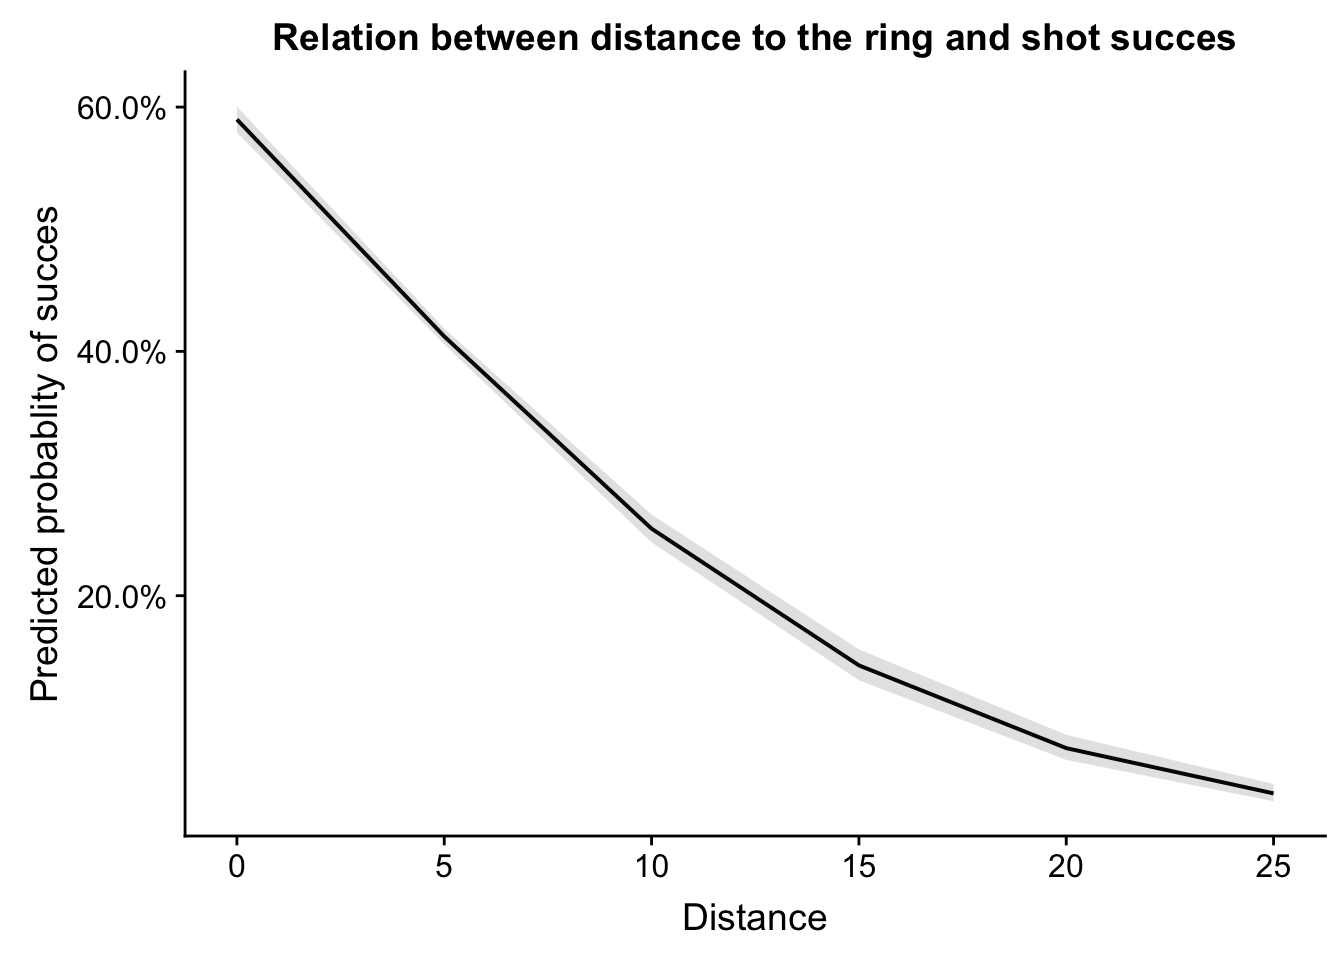
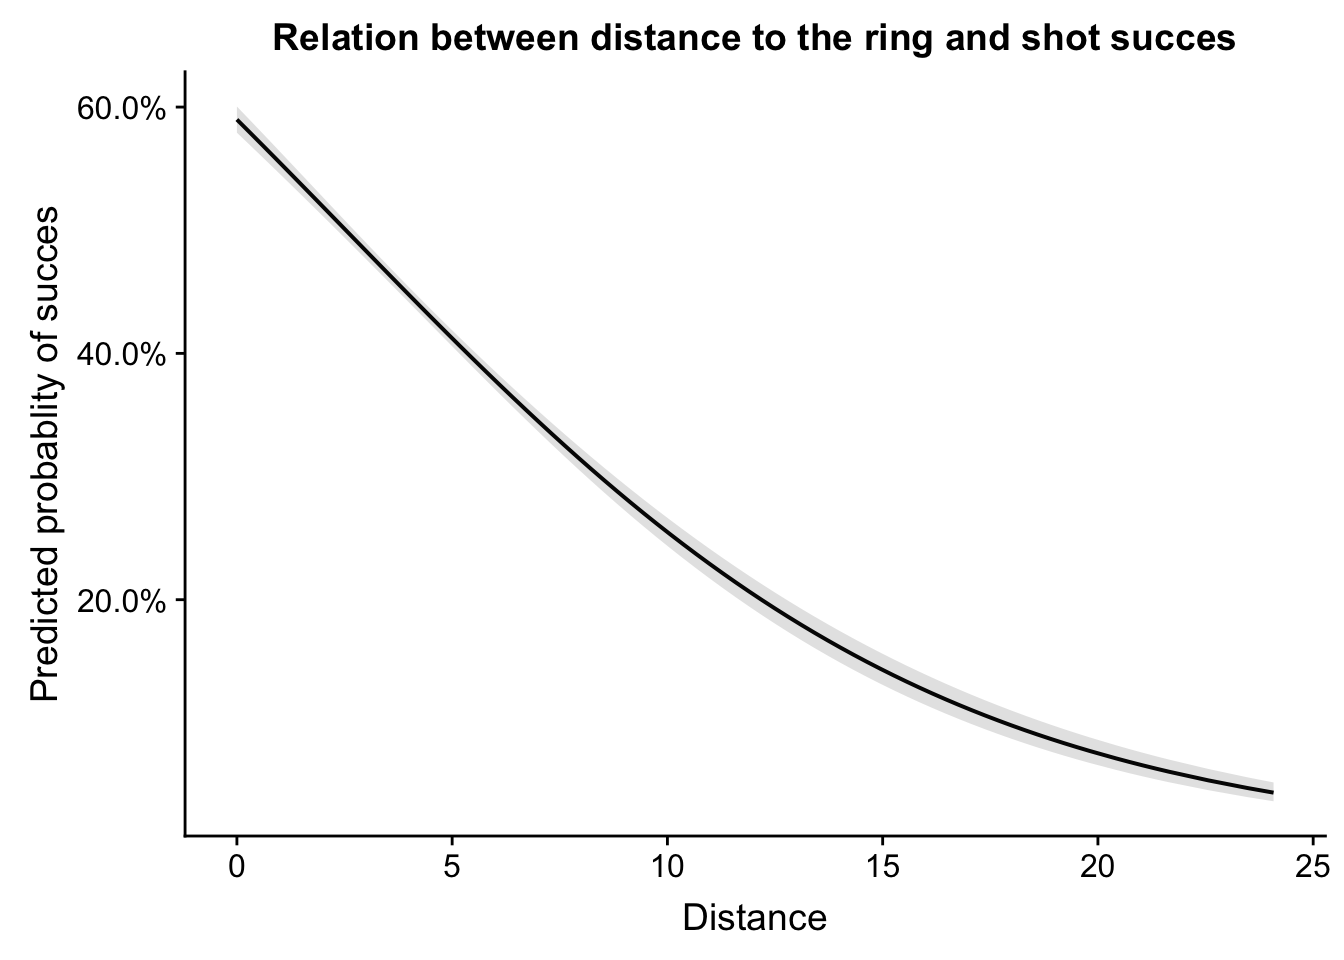
aanpassing_13_12_2019

diff --git a/public/post/compare-models/index.html b/public/post/compare-models/index.html
@@ -132,7 +132,7 @@
   
   <meta property="article:published_time" content="2019-12-09T00:00:00&#43;00:00">
   
-  <meta property="article:modified_time" content="2019-12-09T15:34:00&#43;01:00">
+  <meta property="article:modified_time" content="2019-12-10T13:52:40&#43;01:00">
   
 
   
@@ -449,7 +449,7 @@
 
 
 <meta content="2019-12-09 00:00:00 &#43;0000 UTC" itemprop="datePublished">
-<meta content="2019-12-09 15:34:00 &#43;0100 CET" itemprop="dateModified">
+<meta content="2019-12-10 13:52:40 &#43;0100 CET" itemprop="dateModified">
 
 <div class="article-metadata">
 
@@ -476,7 +476,7 @@
           Last updated on
       
     
-    <time>Dec 9, 2019</time>
+    <time>Dec 10, 2019</time>
   </span>
   
 
@@ -574,15 +574,16 @@
 
 <p>When researchers commonly apply statistical hypothesis testing they rely heavily on the fameous p-values. These p-values have the following meaning: <em>how big is the probability that I would encounter my data given that the null-hypothesis is true</em> . So, actually, these statistical routines inform us on the null-hypothesis (which in most cases is simply the hypothesis that there is no effect or no difference at all). Many scholars have started to critizise this p-value oriented approach leading and discussing the risks and flaws of using p-values. It has even brought the American Statistical Association to the point that they published a statement on p-values (<a href="https://amstat.tandfonline.com/doi/full/10.1080/00031305.2016.1154108#.Xe5xppNKh26">see article</a>).</p>
 <p>To criticize things is one thing. Providing solutions is something different. One of the upcoming alternatives is the idea of <strong>modelbased inference</strong> or <strong>model selection</strong>. The basic idea behind this approach is that a researcher translates alternative hypotheses in different statistical models. Based on measures coming from <em>information theory</em> we then can express the probability of each of the different alternative models. Also, the evidence coming from different models can be combined to make inferences.</p>
-<p>In this post we will give a short demo of how we can use such an approach. We will use this approach to inform us on who is right in a discussion that got out of hand. The discussion was on basketball at the kitchen table of a certain family. More specificall it was on whether Kobe Bryant was the most consistent shotter ever in the NBA. And one of the arguments was that his shotsucces was not that much influenced by many factors. So, which factors had an influence on Kobe Bryant’s shot succes? Let’s find out. Here we go with our <em>statistical story</em>. We do our demonstration in R, making use of the <code>AICcmodavg</code> package.</p>
+<p>In this post we will give a short demo of how we can use such an approach. We will use this approach to inform us on who is right in a discussion that got out of hand…</p>
 <hr />
 <div id="the-story-of-kobe-bryant" class="section level2">
 <h2>The story of Kobe Bryant</h2>
-<p><em>Data-analyses is big business in the NBA. In each team there is at least one data-analysist who gathers data during games and makes predictions based on the data. One of the things documented in datasets is the position from where a player takes a shot and whether the shot was a succes or not…</em></p>
+<p><em>The discussion was on basketball and it happened at the kitchen table of “a certain family”. More specifically, the discussion was on whether Kobe Bryant was one of the most consistent shotters ever in the NBA. One of the arguments was that his shotsucces was nearly influenced by any extraneous factor. But, which factors had an influence on Kobe Bryant’s shot succes? Let’s find out. Here we go with our </em>statistical story<em>. We do our demonstration in R, making use of the <code>AICcmodavg</code> package.</em></p>
 <div class="figure">
 <img src="/img/nba.jpg" />
 
 </div>
+<p>Data-analyses is big business in the NBA. In each team there is at least one data-analysist gathering data during games to make predictions. One of the things documented in datasets is the position from where a player takes a shot and whether the shot was a succes or not…</p>
 <p>For our example we have data on each shot that Kobe Bryant took in his NBA-career. The data can be downloaded here (<a href="/post/KobeBryant.RData">download the data</a>).</p>
 <p>The variable <strong>‘Scored’</strong> registers whether the shot was succesfull or not. A simple table shows the numbers…</p>
 <pre class="r"><code># Scored (0 = missed, 1 = scored)
@@ -718,8 +719,8 @@ AICTAB</code></pre>
 <p>To get an idea of how shot succes is influenced by distance, we can plot our estimated model, making use of the <code>plot_model</code> command from the package <code>sjPlot</code>.</p>
 <pre class="r"><code>library(sjPlot)
 Plot_probs &lt;- plot_model(Model_W,
-                type      = c(&quot;eff&quot;),
-                terms     = c(&quot;Distance_in_m&quot;),
+                type      = c(&quot;pred&quot;),
+                terms     = c(&quot;Distance_in_m [all]&quot;),
                 axis.title = c(&quot;Distance&quot;, &quot;Predicted probablity of succes&quot;),
                 title = &quot;Relation between distance to the ring and shot succes&quot;)
 
@@ -729,7 +730,7 @@ Plot_probs</code></pre>
 </div>
 <div id="to-conlcude" class="section level2">
 <h2>To conlcude</h2>
-<p>The typical null-hypothesis significance testing is under pressure. One of the upcoming alternatives is making use of <strong>modelbased inference</strong>. We hope you get a rough idea about how this approach can be applied. More in-depth reading is of course welcome. The references added in this post can help. A great read as well is Chapter 6 in THE book you must read on statistics: <span class="citation">McElreath (<a href="#ref-mcelreath2018statistical">2018</a>)</span>. This book is also nicely ‘recoded’ making use of modern packages in R in the following book: <a href="https://bookdown.org/connect/#/apps/1850/access">Statistical Rethink Recoded</a>.</p>
+<p>The typical null-hypothesis significance testing is under pressure. One of the upcoming alternatives is making use of <strong>modelbased inference</strong>. We hope you get a rough idea about how this approach can be applied. More in-depth reading is of course welcome. The references added in this post can help. A great read as well is Chapter 6 in THE book you must read on statistics: <span class="citation">McElreath (<a href="#ref-mcelreath2018statistical">2018</a>)</span>. This book is also nicely ‘recoded’ making use of modern packages in R in the following book: <a href="https://bookdown.org/connect/#/apps/1850/access">Statistical Rethinking Recoded</a>.</p>
 <p>Have fun while leaRning!</p>
 </div>
 <div id="references" class="section level1 unnumbered">

diff --git a/content/post/2019-12-09-logisitscheregressie.html b/content/post/2019-12-09-logisitscheregressie.html
@@ -25,15 +25,16 @@ link-citations: true
 
 <p>When researchers commonly apply statistical hypothesis testing they rely heavily on the fameous p-values. These p-values have the following meaning: <em>how big is the probability that I would encounter my data given that the null-hypothesis is true</em> . So, actually, these statistical routines inform us on the null-hypothesis (which in most cases is simply the hypothesis that there is no effect or no difference at all). Many scholars have started to critizise this p-value oriented approach leading and discussing the risks and flaws of using p-values. It has even brought the American Statistical Association to the point that they published a statement on p-values (<a href="https://amstat.tandfonline.com/doi/full/10.1080/00031305.2016.1154108#.Xe5xppNKh26">see article</a>).</p>
 <p>To criticize things is one thing. Providing solutions is something different. One of the upcoming alternatives is the idea of <strong>modelbased inference</strong> or <strong>model selection</strong>. The basic idea behind this approach is that a researcher translates alternative hypotheses in different statistical models. Based on measures coming from <em>information theory</em> we then can express the probability of each of the different alternative models. Also, the evidence coming from different models can be combined to make inferences.</p>
-<p>In this post we will give a short demo of how we can use such an approach. We will use this approach to inform us on who is right in a discussion that got out of hand. The discussion was on basketball at the kitchen table of a certain family. More specificall it was on whether Kobe Bryant was the most consistent shotter ever in the NBA. And one of the arguments was that his shotsucces was not that much influenced by many factors. So, which factors had an influence on Kobe Bryant’s shot succes? Let’s find out. Here we go with our <em>statistical story</em>. We do our demonstration in R, making use of the <code>AICcmodavg</code> package.</p>
+<p>In this post we will give a short demo of how we can use such an approach. We will use this approach to inform us on who is right in a discussion that got out of hand…</p>
 <hr />
 <div id="the-story-of-kobe-bryant" class="section level2">
 <h2>The story of Kobe Bryant</h2>
-<p><em>Data-analyses is big business in the NBA. In each team there is at least one data-analysist who gathers data during games and makes predictions based on the data. One of the things documented in datasets is the position from where a player takes a shot and whether the shot was a succes or not…</em></p>
+<p><em>The discussion was on basketball and it happened at the kitchen table of “a certain family”. More specifically, the discussion was on whether Kobe Bryant was one of the most consistent shotters ever in the NBA. One of the arguments was that his shotsucces was nearly influenced by any extraneous factor. But, which factors had an influence on Kobe Bryant’s shot succes? Let’s find out. Here we go with our </em>statistical story<em>. We do our demonstration in R, making use of the <code>AICcmodavg</code> package.</em></p>
 <div class="figure">
 <img src="/img/nba.jpg" />
 
 </div>
+<p>Data-analyses is big business in the NBA. In each team there is at least one data-analysist gathering data during games to make predictions. One of the things documented in datasets is the position from where a player takes a shot and whether the shot was a succes or not…</p>
 <p>For our example we have data on each shot that Kobe Bryant took in his NBA-career. The data can be downloaded here (<a href="/post/KobeBryant.RData">download the data</a>).</p>
 <p>The variable <strong>‘Scored’</strong> registers whether the shot was succesfull or not. A simple table shows the numbers…</p>
 <pre class="r"><code># Scored (0 = missed, 1 = scored)
@@ -169,8 +170,8 @@ AICTAB</code></pre>
 <p>To get an idea of how shot succes is influenced by distance, we can plot our estimated model, making use of the <code>plot_model</code> command from the package <code>sjPlot</code>.</p>
 <pre class="r"><code>library(sjPlot)
 Plot_probs &lt;- plot_model(Model_W,
-                type      = c(&quot;eff&quot;),
-                terms     = c(&quot;Distance_in_m&quot;),
+                type      = c(&quot;pred&quot;),
+                terms     = c(&quot;Distance_in_m [all]&quot;),
                 axis.title = c(&quot;Distance&quot;, &quot;Predicted probablity of succes&quot;),
                 title = &quot;Relation between distance to the ring and shot succes&quot;)
 
@@ -180,7 +181,7 @@ Plot_probs</code></pre>
 </div>
 <div id="to-conlcude" class="section level2">
 <h2>To conlcude</h2>
-<p>The typical null-hypothesis significance testing is under pressure. One of the upcoming alternatives is making use of <strong>modelbased inference</strong>. We hope you get a rough idea about how this approach can be applied. More in-depth reading is of course welcome. The references added in this post can help. A great read as well is Chapter 6 in THE book you must read on statistics: <span class="citation">McElreath (<a href="#ref-mcelreath2018statistical">2018</a>)</span>. This book is also nicely ‘recoded’ making use of modern packages in R in the following book: <a href="https://bookdown.org/connect/#/apps/1850/access">Statistical Rethink Recoded</a>.</p>
+<p>The typical null-hypothesis significance testing is under pressure. One of the upcoming alternatives is making use of <strong>modelbased inference</strong>. We hope you get a rough idea about how this approach can be applied. More in-depth reading is of course welcome. The references added in this post can help. A great read as well is Chapter 6 in THE book you must read on statistics: <span class="citation">McElreath (<a href="#ref-mcelreath2018statistical">2018</a>)</span>. This book is also nicely ‘recoded’ making use of modern packages in R in the following book: <a href="https://bookdown.org/connect/#/apps/1850/access">Statistical Rethinking Recoded</a>.</p>
 <p>Have fun while leaRning!</p>
 </div>
 <div id="references" class="section level1 unnumbered">

diff --git a/public/index.html b/public/index.html
@@ -801,7 +801,7 @@
 
 
 <meta content="2019-12-09 00:00:00 &#43;0000 UTC" itemprop="datePublished">
-<meta content="2019-12-09 15:34:00 &#43;0100 CET" itemprop="dateModified">
+<meta content="2019-12-10 13:52:40 &#43;0100 CET" itemprop="dateModified">
 
 <div class="article-metadata">
 
@@ -828,7 +828,7 @@
           Last updated on
       
     
-    <time>Dec 9, 2019</time>
+    <time>Dec 10, 2019</time>
   </span>
   
 
@@ -911,7 +911,7 @@
 
 
 <meta content="2019-07-07 00:00:00 &#43;0000 UTC" itemprop="datePublished">
-<meta content="2019-07-07 22:24:57 &#43;0200 CEST" itemprop="dateModified">
+<meta content="2019-12-10 13:52:40 &#43;0100 CET" itemprop="dateModified">
 
 <div class="article-metadata">
 
@@ -926,7 +926,7 @@
           Last updated on
       
     
-    <time>Jul 7, 2019</time>
+    <time>Dec 10, 2019</time>
   </span>
   
 

diff --git a/public/post/index.html b/public/post/index.html
@@ -494,7 +494,7 @@
 
 
 <meta content="2019-12-09 00:00:00 &#43;0000 UTC" itemprop="datePublished">
-<meta content="2019-12-09 15:34:00 &#43;0100 CET" itemprop="dateModified">
+<meta content="2019-12-10 13:52:40 &#43;0100 CET" itemprop="dateModified">
 
 <div class="article-metadata">
 
@@ -521,7 +521,7 @@
           Last updated on
       
     
-    <time>Dec 9, 2019</time>
+    <time>Dec 10, 2019</time>
   </span>
   
 
@@ -604,7 +604,7 @@
 
 
 <meta content="2019-07-07 00:00:00 &#43;0000 UTC" itemprop="datePublished">
-<meta content="2019-07-07 22:24:57 &#43;0200 CEST" itemprop="dateModified">
+<meta content="2019-12-10 13:52:40 &#43;0100 CET" itemprop="dateModified">
 
 <div class="article-metadata">
 
@@ -619,7 +619,7 @@
           Last updated on
       
     
-    <time>Jul 7, 2019</time>
+    <time>Dec 10, 2019</time>
   </span>
   
 

diff --git a/public/post/how-to-understand-bayesian-analyses/index.html b/public/post/how-to-understand-bayesian-analyses/index.html
@@ -132,7 +132,7 @@
   
   <meta property="article:published_time" content="2019-07-07T00:00:00&#43;00:00">
   
-  <meta property="article:modified_time" content="2019-07-07T22:24:57&#43;02:00">
+  <meta property="article:modified_time" content="2019-12-10T13:52:40&#43;01:00">
   
 
   
@@ -447,7 +447,7 @@
 
 
 <meta content="2019-07-07 00:00:00 &#43;0000 UTC" itemprop="datePublished">
-<meta content="2019-07-07 22:24:57 &#43;0200 CEST" itemprop="dateModified">
+<meta content="2019-12-10 13:52:40 &#43;0100 CET" itemprop="dateModified">
 
 <div class="article-metadata">
 
@@ -462,7 +462,7 @@
           Last updated on
       
     
-    <time>Jul 7, 2019</time>
+    <time>Dec 10, 2019</time>
   </span>
   
 
